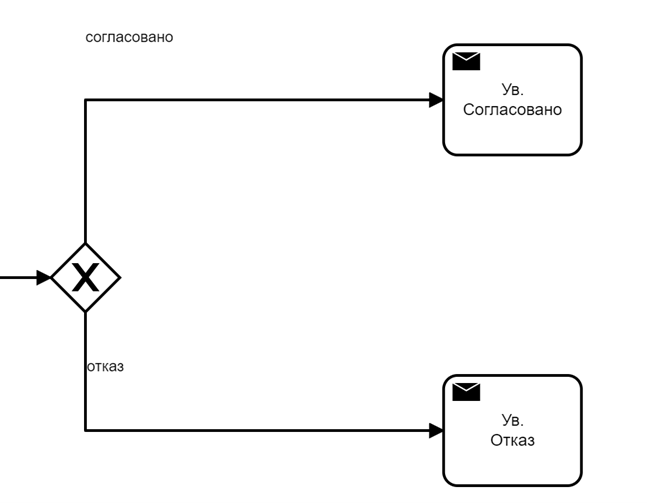
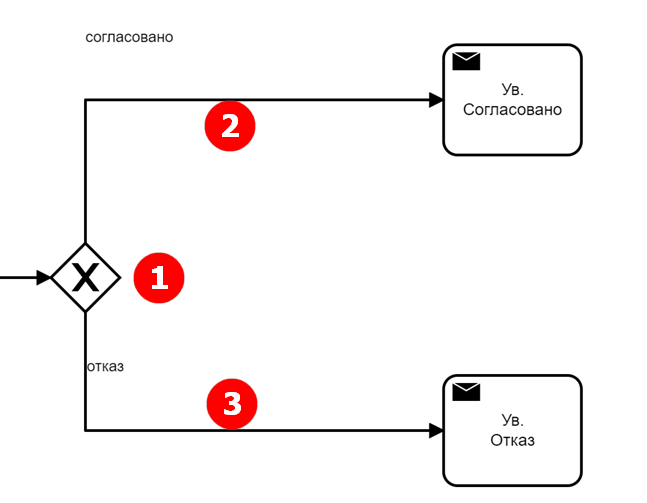
offer_3

Changed region(s): [[0.3091, 0.7455, 0.4019, 0.8648], [0.1855, 0.507, 0.3091, 0.6262], [0.3091, 0.1789, 0.4019, 0.2982]]

diff --git a/docs/case_sample/offer.rst b/docs/case_sample/offer.rst
@@ -1581,7 +1581,7 @@
                .. image:: _static/offer/bpform/bpform_2.png
                     :width: 50
                     :align: center
-        - :ref:`Шлюз и выходы<gateway>`
+        - :ref:`Шлюз<gateway>` и :ref:`поток управления<sequential flow>`
       * - 
                .. image:: _static/offer/bpform/bpform_3.png
                     :width: 50
@@ -1611,7 +1611,7 @@
 Создание элементов
 ~~~~~~~~~~~~~~~~~~
 
-Создание Начальнго события
+Создание начального события
 ~~~~~~~~~~~~~~~~~~~~~~~~~~~
 
 Начальное событие задается по умолчанию элементом:
@@ -1630,6 +1630,53 @@
        :align: center
 
 Для шлюза укажите **Имя**.
+
+Создание потока данных
+~~~~~~~~~~~~~~~~~~~~~~~
+
+Поток управления используется для связи элементов потока BPMN (событий, процессов, шлюзов).
+
+Поток управления отображает ход выполнения процесса. 
+
+ .. image:: _static/offer/bmpn10а.png
+       :width: 300
+       :align: center
+
+Далее ведите стрелку к необходимому элементу. Для потока можно указать тип условия. 
+
+Для шлюза, созданного выше:
+
+Поток «Нет»:
+
+               .. image:: _static/offer/bpflow/bpflow_1.png
+                    :width: 400
+                    :align: center
+          
+Текст скипта:
+          
+               .. code-block::
+
+                    var offerChief = document.load('_roles.assigneesOf.offer-chief-role');
+                    var director = document.load('_roles.assigneesOf.offer-director-role');
+
+                    value= offerChief!=director;
+
+Поток «Да»:
+
+               .. image:: _static/offer/bpflow/bpflow_2.png
+                    :width: 400
+                    :align: center
+          
+Текст скипта:
+          
+               .. code-block::
+
+                    var offerChief = document.load('_roles.assigneesOf.offer-chief-role');
+                    var director = document.load('_roles.assigneesOf.offer-director-role');
+
+
+                    value = offerChief==director;
+
 
 Создание уведомления
 ~~~~~~~~~~~~~~~~~~~~
@@ -1760,7 +1807,7 @@
 
 :ref:`Подробно о формах для бизнес-процессов<user_task>`
 
-Ниже приведено изображение конечной настройки (для визуальной сверки):
+Ниже приведено изображение конечной настройки бизнес-процесса (для визуальной сверки):
 
  .. image:: _static/offer/bpform/bpform_8.png
        :width: 600

diff --git a/docs/settings_kb/processes/BPMN_bpmnio.rst b/docs/settings_kb/processes/BPMN_bpmnio.rst
@@ -666,9 +666,29 @@
        :width: 300
        :align: center
 
-Для шлюза указываются выходы из предыдущих элементов задач. 
 
-Условия могут иметь разные типы условия:
+Настройка шлюза **(1)**:
+
+ .. image:: _static/BPMN_bpmnio/91.png
+       :width: 300
+       :align: center
+
+.. _sequential flow:
+
+Поток управления 
+~~~~~~~~~~~~~~~~~
+
+Поток управления используется для связи элементов потока BPMN (событий, процессов, шлюзов).
+
+Поток управления отображает ход выполнения процесса. 
+
+ .. image:: _static/BPMN_bpmnio/92.png
+       :width: 200
+       :align: center
+
+Далее ведите стрелку к необходимому элементу. Для потока можно указать тип условия.
+
+Условия могут иметь разные типы:
 
  .. image:: _static/BPMN_bpmnio/64.png
        :width: 300
@@ -678,10 +698,11 @@
 *	Скрипт - скрипт, который должен вернуть булевое значение. Например: pasymentSum >= 30000
 *	Выражение – expression см. подробно https://docs.camunda.io/docs/components/concepts/expressions/
 
-Например:
+Например, для шлюза выше - **(2)** и **(3)**:
 
 .. list-table::
       :widths: 5 5
+      :align: center
       :class: tight-table 
 
       * - Для согласования:
@@ -695,6 +716,7 @@
                .. image:: _static/BPMN_bpmnio/66.png
                 :width: 300
                 :align: center
+
 
 Таймер
 ~~~~~~
